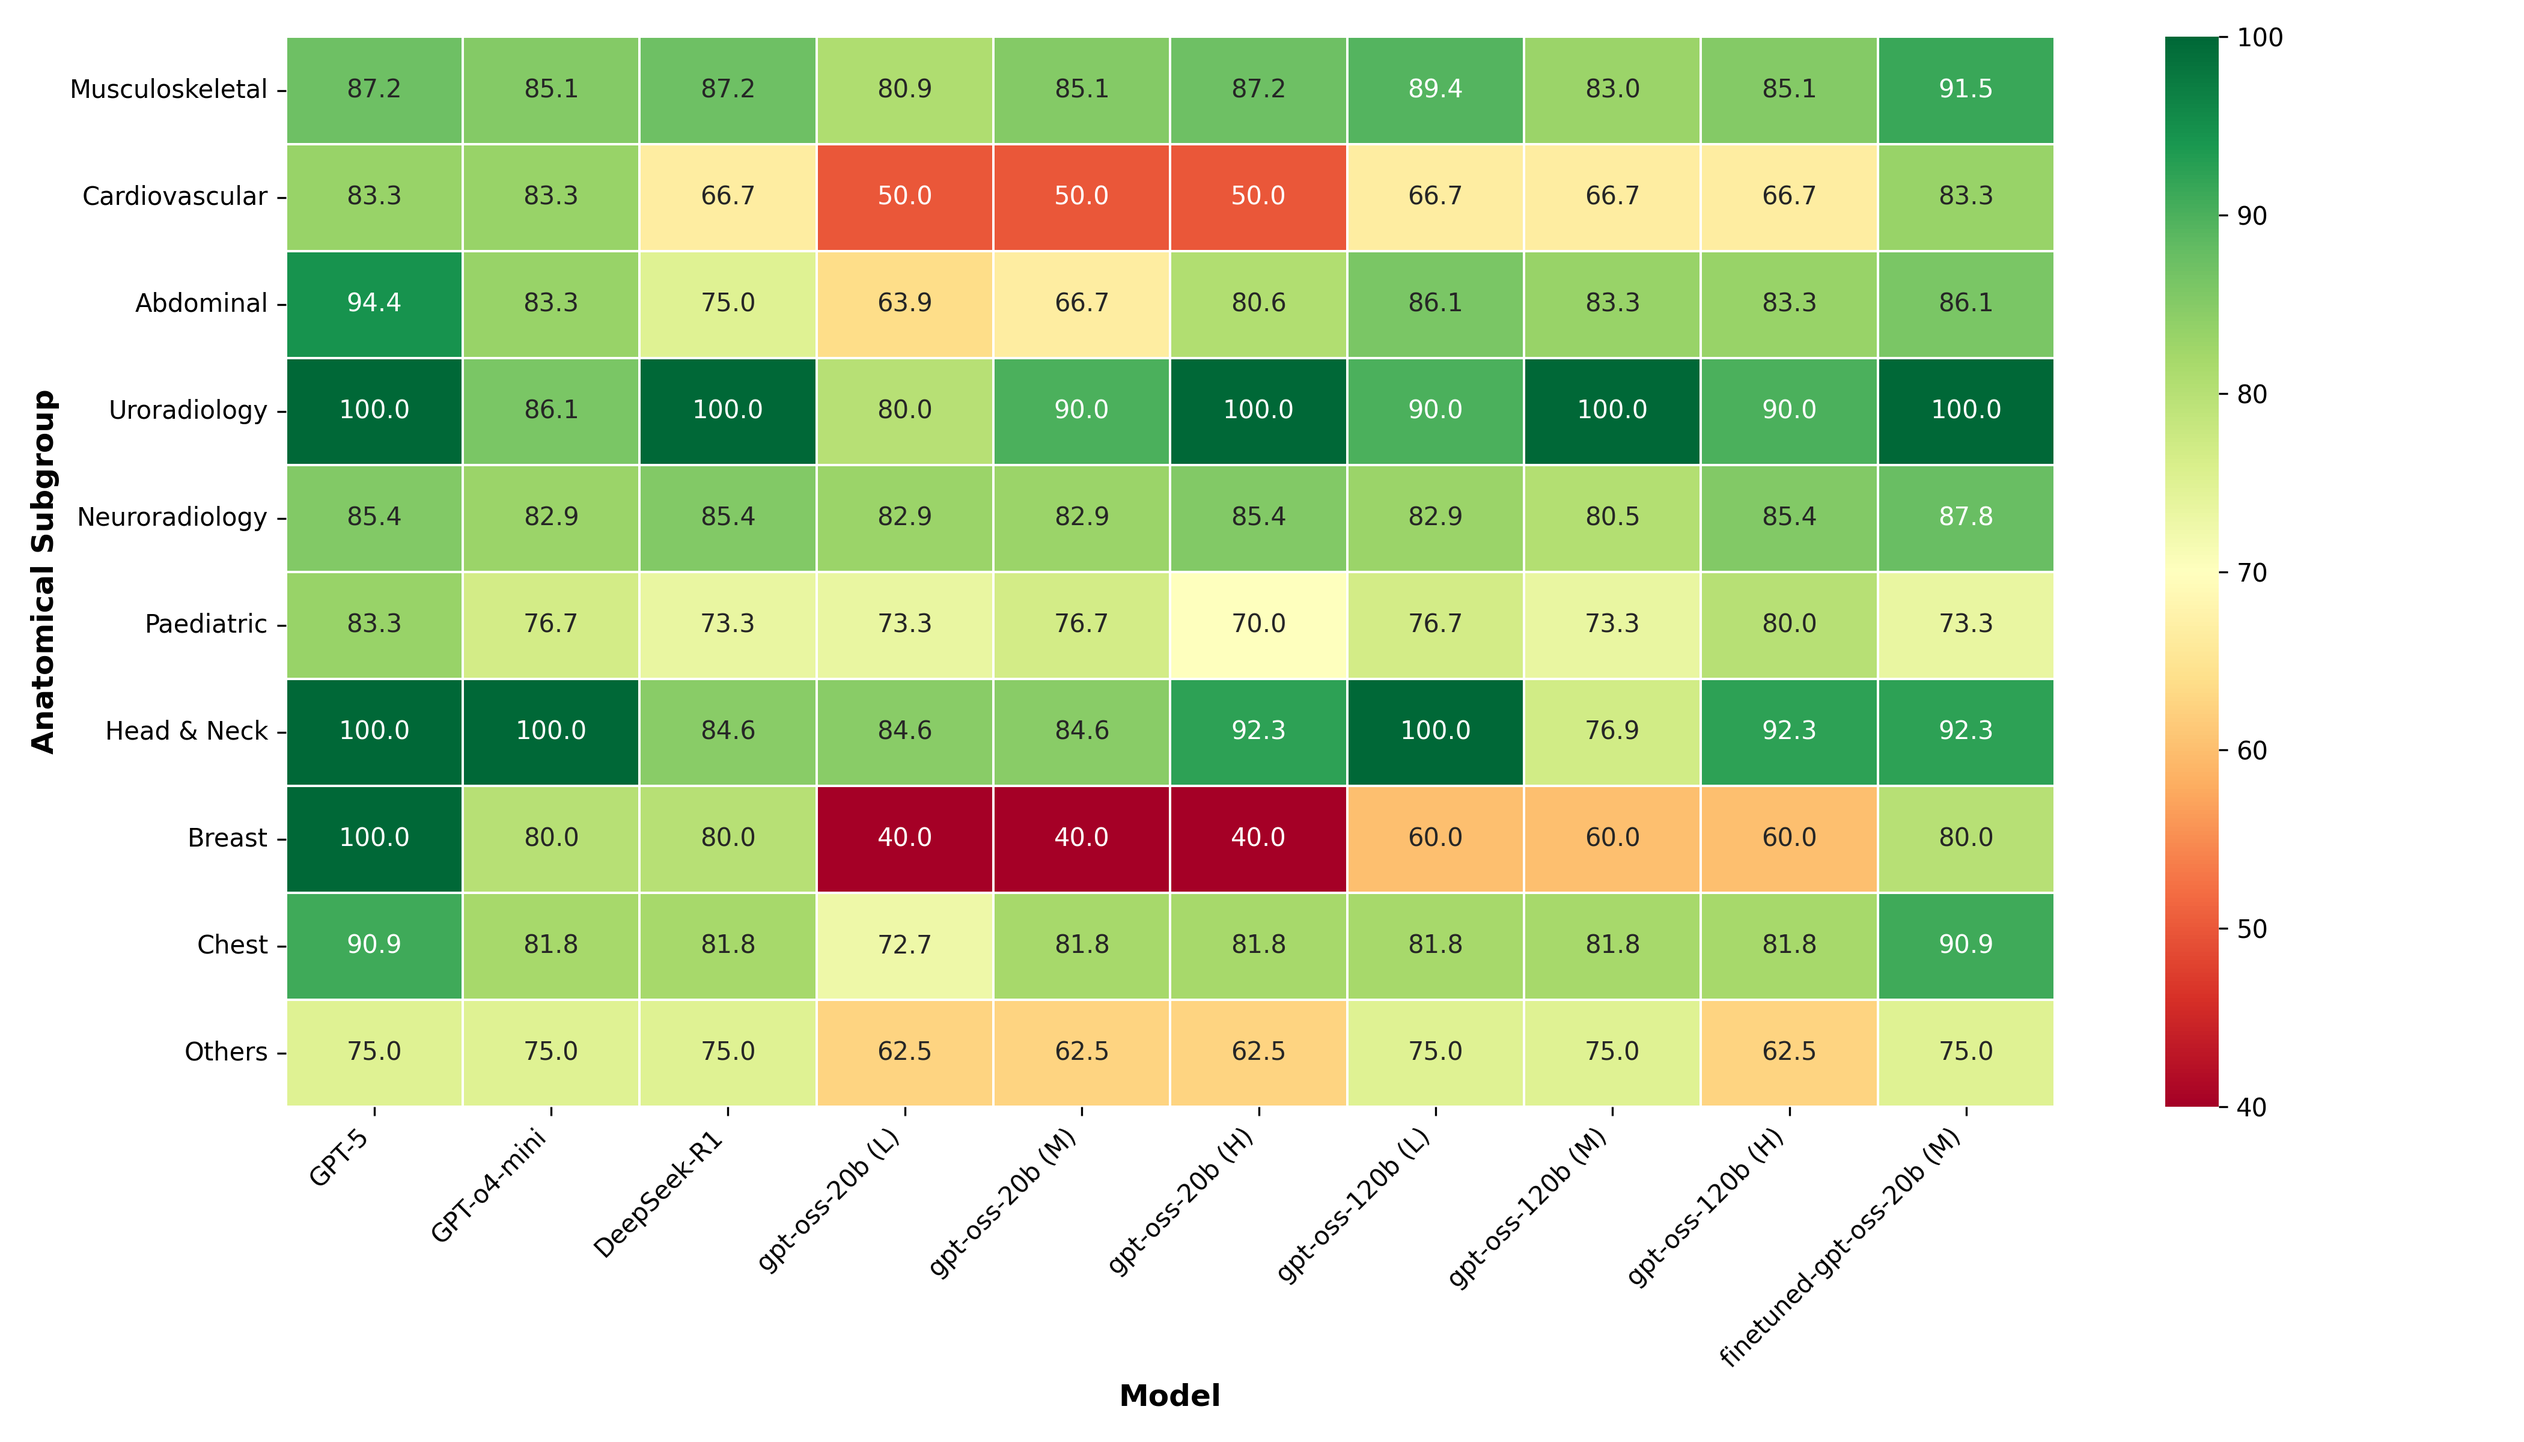
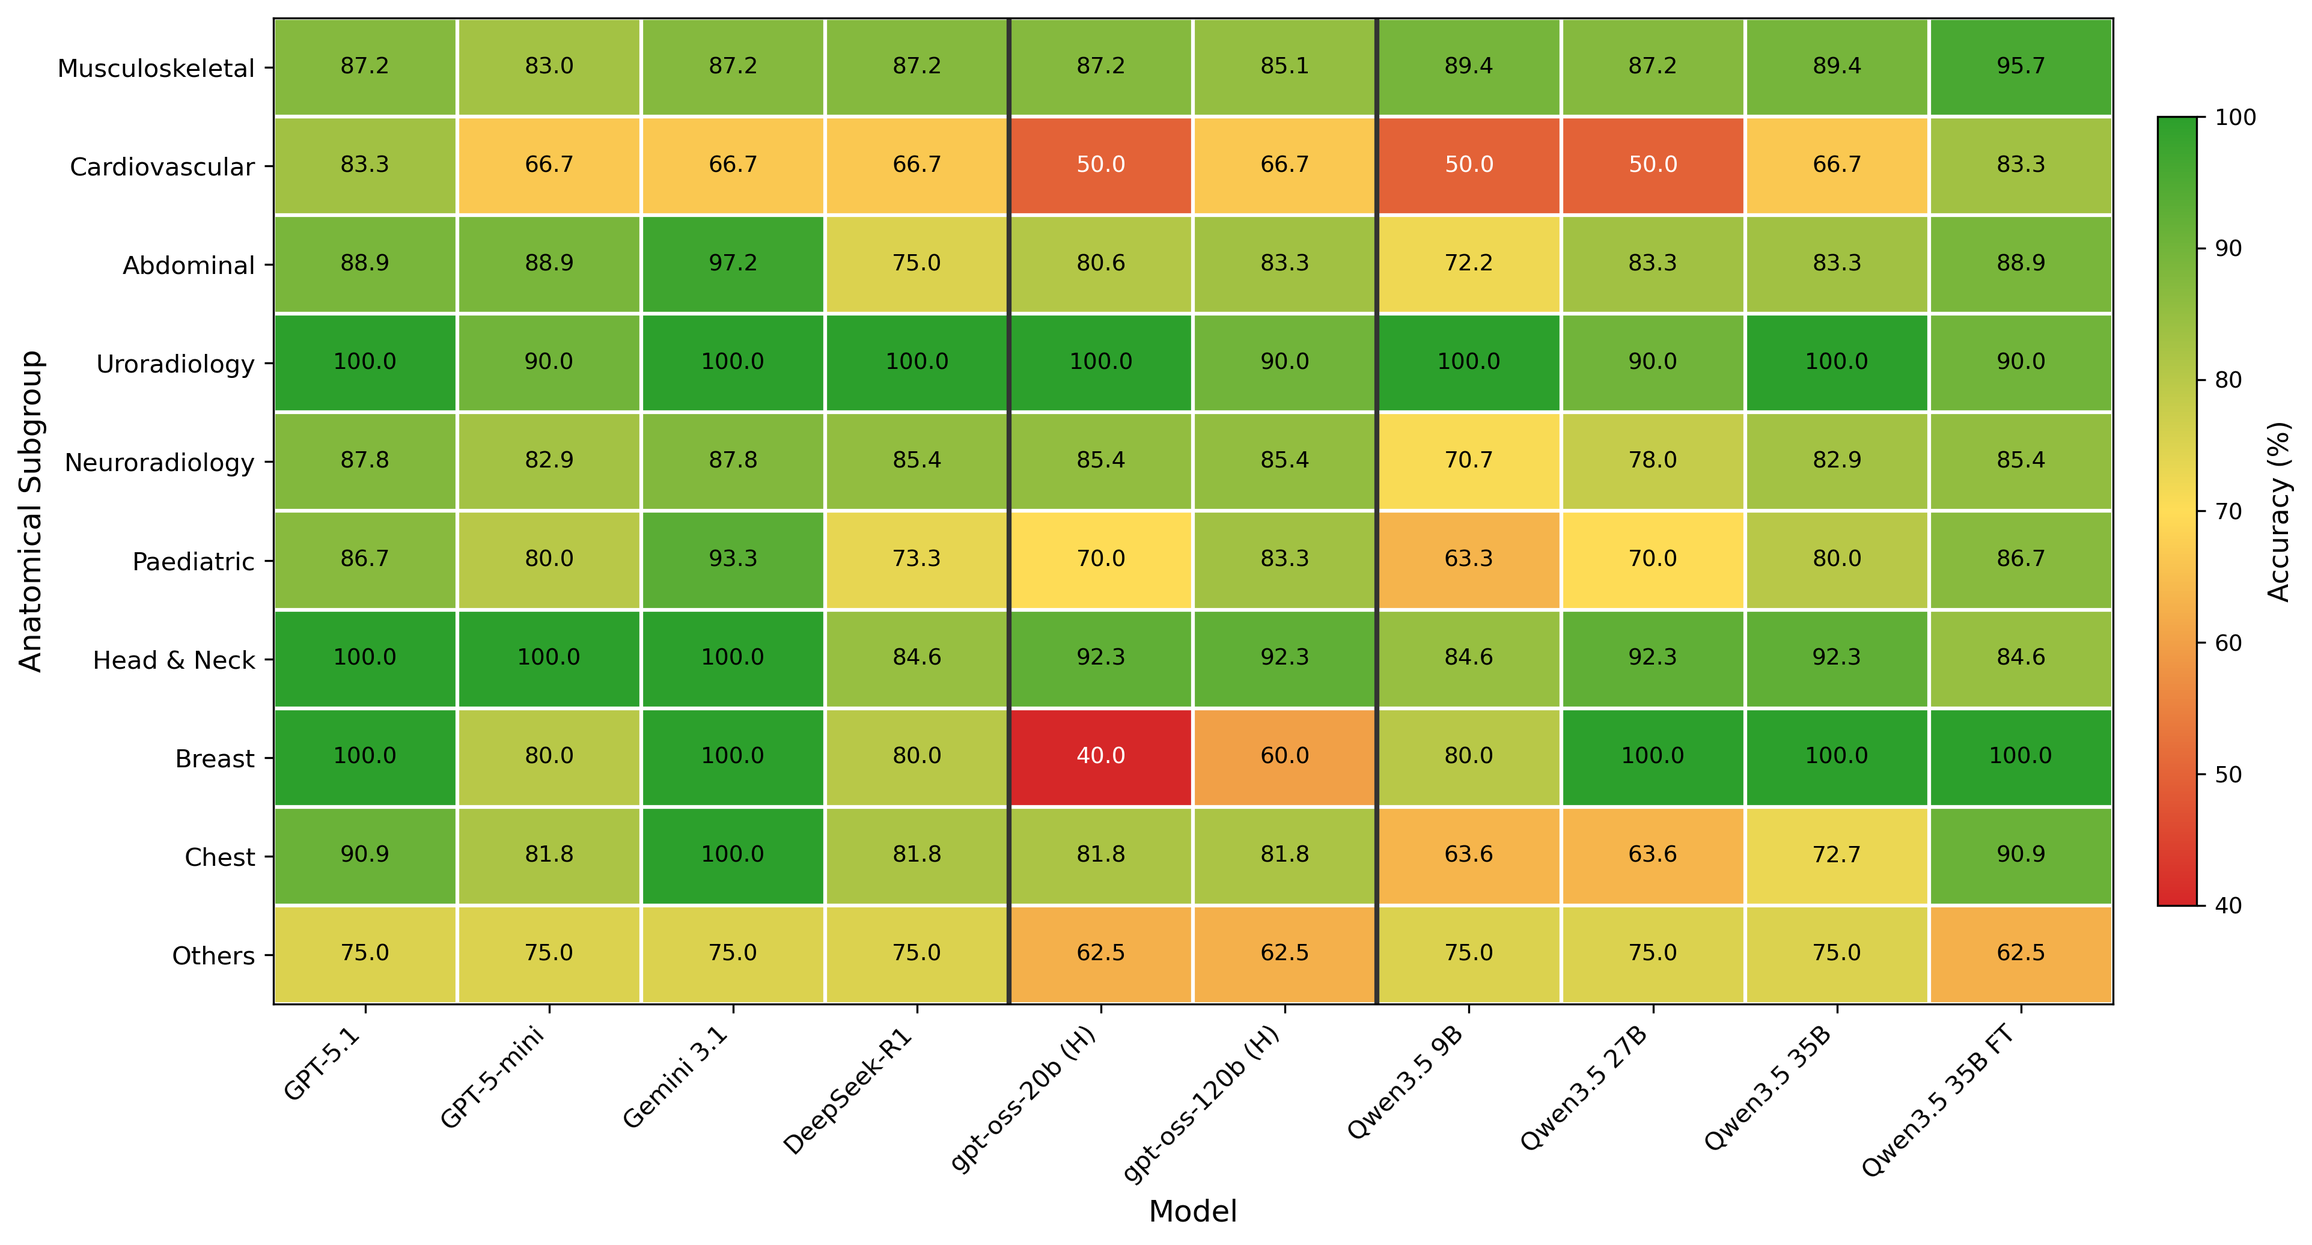
Fix naming inconsistencies, update fig3 heatmap
- Fix Qwen3.5 capitalization in Table 3 header (qwen3.5 → Qwen3.5)
- Fix Table 3 column labels (5.1-mini → GPT-5-mini, Gemini → Gemini-3.1)
- Fix figure caption (Qwen 3.5 → Qwen3.5-35B)
- Fix ophthalmology paragraph figure ref (Fig 2b → Table ref)
- Regenerate fig3 heatmap with new 10-model lineup

diff --git a/main.tex b/main.tex
@@ -157,7 +157,7 @@ To ensure rigorous zero-shot evaluation and prevent data leakage, all three benc
 \caption{\textbf{Zero-shot and fine-tuning performance of on-device LLMs.}
 \textbf{a,} Results of LLM-as-a-generalist: diagnosis accuracy on a wide range of radiological cases (N=207).
 \textbf{b,} Results of LLM-as-a-clinical-judge: violin plots comparing the relative error for disease diagnosis and treatment open-ended question assessment (N=1315).
-\textbf{c,} Fine-tuned Qwen 3.5 35B model accuracy compared to proprietary LLMs on the disease differential diagnosis task.
+\textbf{c,} Fine-tuned Qwen3.5-35B model accuracy compared to proprietary LLMs on the disease differential diagnosis task.
 \textbf{d,} Model performance across 10 radiological sub-specialties.
 }\label{fig:2}
 \end{figure}
@@ -198,7 +198,7 @@ Others            & \best{\acc{75.0}} & \best{\acc{75.0}} & \best{\acc{75.0}} & 
 \end{table}
 
 
-Fig.~\ref{fig:2}b presents the model performance of the LLM-as-a-specialist task on the ophthalmology QA dataset (Table~\ref{tab:ophthalmology_results}). The open-source model DeepSeek-R1 achieved the highest overall accuracy of 79.2\% (95\% CI: 71.5--85.3\%), demonstrating particularly strong capabilities in diagnosis (92.3\%; 95\% CI: 79.7--97.3\%) and management (73.6\%; 95\% CI: 63.7--81.6\%). Remarkably, the on-device gpt-oss-120b (M) model secured the second-highest rank with an overall accuracy of 77.7\% (95\% CI: 69.8--84.0\%), surpassing the proprietary GPT-5.1 (76.9\%) and GPT-5-mini (67.7\%) baselines. This performance underscores the capacity of locally deployed large models to rival state-of-the-art proprietary systems in specialty-specific medical reasoning. While the smaller gpt-oss-20b variants showed a performance gap, with the best-performing gpt-oss-20b (H) achieving 66.2\% (95\% CI: 57.7--73.7\%), they remained competitive in specific subtasks (e.g., Refractive Disorders or Strabismus). Across all evaluated architectures, models consistently demonstrated higher performance in diagnosis compared to patient management, reflecting the increased complexity of treatment planning in specialty care.
+Table~\ref{tab:ophthalmology_results} presents the model performance of the LLM-as-a-specialist task on the ophthalmology QA dataset. The open-source model DeepSeek-R1 achieved the highest overall accuracy of 79.2\% (95\% CI: 71.5--85.3\%), demonstrating particularly strong capabilities in diagnosis (92.3\%; 95\% CI: 79.7--97.3\%) and management (73.6\%; 95\% CI: 63.7--81.6\%). Remarkably, the on-device gpt-oss-120b (M) model secured the second-highest rank with an overall accuracy of 77.7\% (95\% CI: 69.8--84.0\%), surpassing the proprietary GPT-5.1 (76.9\%) and GPT-5-mini (67.7\%) baselines. This performance underscores the capacity of locally deployed large models to rival state-of-the-art proprietary systems in specialty-specific medical reasoning. While the smaller gpt-oss-20b variants showed a performance gap, with the best-performing gpt-oss-20b (H) achieving 66.2\% (95\% CI: 57.7--73.7\%), they remained competitive in specific subtasks (e.g., Refractive Disorders or Strabismus). Across all evaluated architectures, models consistently demonstrated higher performance in diagnosis compared to patient management, reflecting the increased complexity of treatment planning in specialty care.
 
 
 Fig.~\ref{fig:2}b shows the evaluation results of models acting as clinical judges (Table~\ref{tab:specialty_results_with_total}), measured by the median relative error (interquartile range) between the model's consensus score and human expert consensus. For diagnostic assessment, GPT-5.1 and Gemini 3.1 achieved a median error of 0.00 (IQR: -0.50--0.10 and 0.00--0.50, respectively), while GPT-5-mini exhibited more pronounced systematic underestimation (median error: -0.50, IQR: -1.10--0.00). The on-device gpt-oss-120b (H) demonstrated comparable alignment, achieving a median diagnostic error of 0.00 (IQR: -0.50--0.27). Notably, all three Qwen3.5 models also achieved a median diagnostic error of 0.00, matching the best-performing proprietary models in alignment with human expert scores. For treatment-related judgments, the gpt-oss models showed the lowest median errors (gpt-oss-20b H: 0.17, IQR: -0.29--0.50; gpt-oss-120b H: 0.17, IQR: -0.17--0.50), while GPT-5-mini (0.25), DeepSeek-R1 (0.25), and GPT-5.1 (0.33) showed moderate overestimation. The Qwen3.5 and Gemini models showed higher treatment errors (median 0.50), reflecting the open-ended and subjective nature of treatment evaluation.
@@ -254,9 +254,9 @@ Together, these results support the use of consensus-based aggregation to mitiga
 \label{tab:specialty_results_with_total}
 \begin{tabular}{ll ccc @{\hskip 6pt} c @{\hskip 6pt} ccc @{\hskip 6pt} ccc @{\hskip 6pt} ccc}
 \toprule
-& & \multicolumn{3}{c}{\textbf{Proprietary}} & \textbf{Open} & \multicolumn{3}{c}{\textbf{gpt-oss-20b}} & \multicolumn{3}{c}{\textbf{gpt-oss-120b}} & \multicolumn{3}{c}{\textbf{qwen3.5}} \\
+& & \multicolumn{3}{c}{\textbf{Proprietary}} & \textbf{Open} & \multicolumn{3}{c}{\textbf{gpt-oss-20b}} & \multicolumn{3}{c}{\textbf{gpt-oss-120b}} & \multicolumn{3}{c}{\textbf{Qwen3.5}} \\
 \cmidrule(lr){3-5} \cmidrule(lr){6-6} \cmidrule(lr){7-9} \cmidrule(lr){10-12} \cmidrule(lr){13-15}
-\textbf{Type} & \textbf{Specialty} & \textbf{GPT-5.1} & \textbf{Gemini} & \textbf{5.1-mini} & \textbf{DS-R1} & \textbf{L} & \textbf{M} & \textbf{H} & \textbf{L} & \textbf{M} & \textbf{H} & \textbf{9B} & \textbf{27B} & \textbf{35B} \\
+\textbf{Type} & \textbf{Specialty} & \textbf{GPT-5.1} & \textbf{Gemini-3.1} & \textbf{GPT-5-mini} & \textbf{DS-R1} & \textbf{L} & \textbf{M} & \textbf{H} & \textbf{L} & \textbf{M} & \textbf{H} & \textbf{9B} & \textbf{27B} & \textbf{35B} \\
 \midrule
 \multirow{6}{*}{\rotatebox{90}{\textbf{Treatment}}}
 & Gynecology & 0.25 & 0.50 & 0.25 & 0.38 & 0.17 & 0.17 & 0.17 & \best{0.00} & 0.17 & \best{0.00} & 0.50 & 0.50 & 0.50 \\
